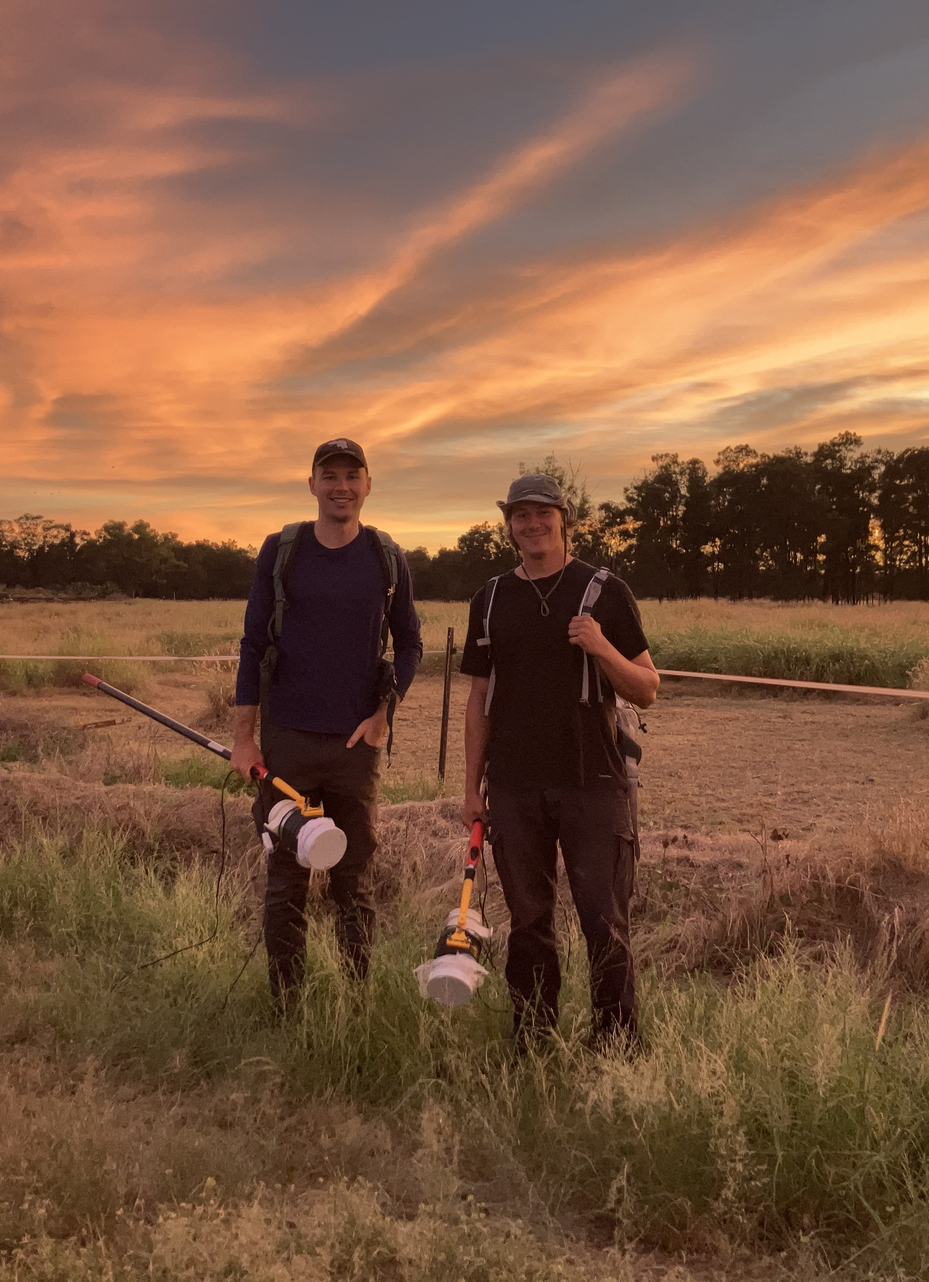
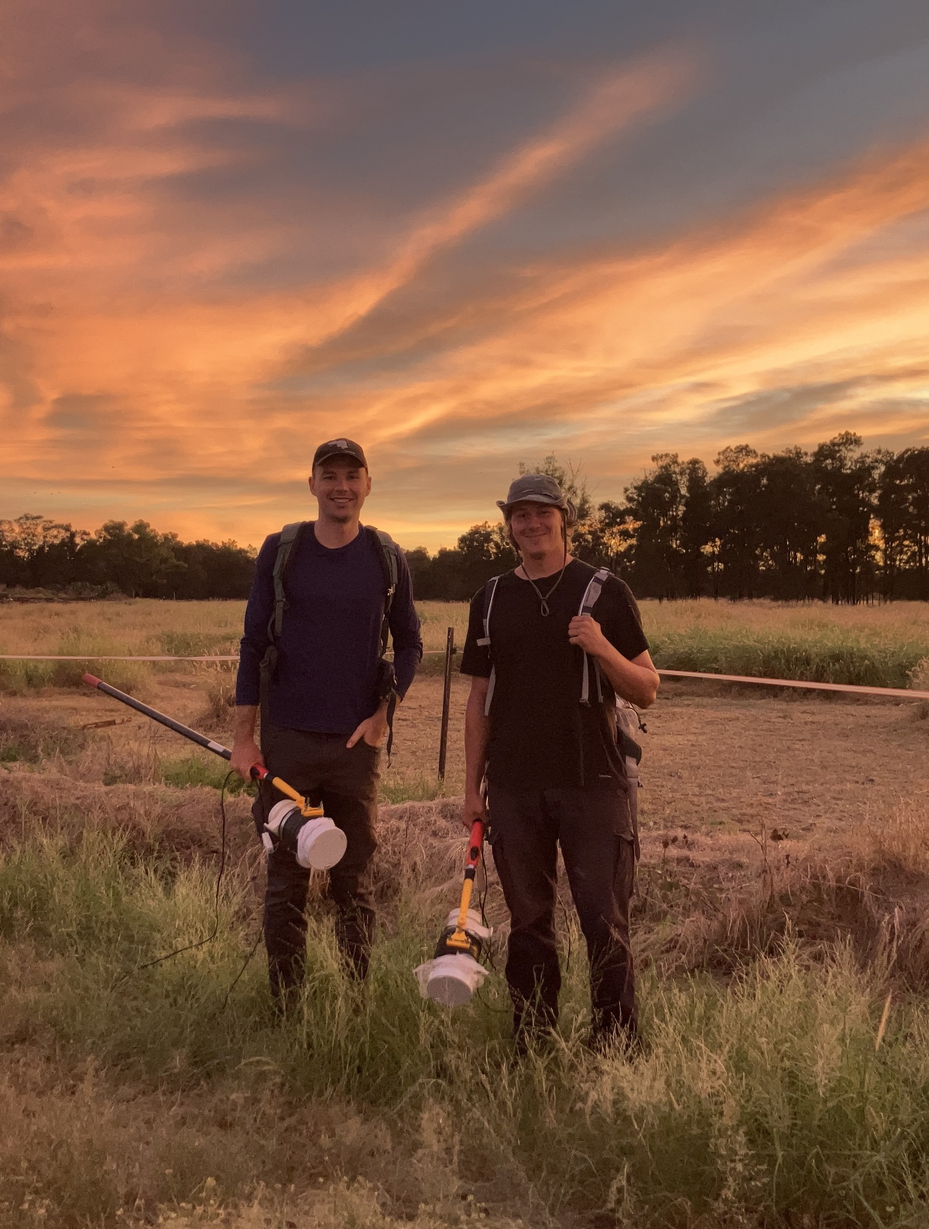
sdf

diff --git a/_includes/landing.html b/_includes/landing.html
@@ -56,10 +56,10 @@
     <!-- About Me Text -->
 <div class="col-md-4 justify-text">
   <p>
-    From the wetlands of Australia to research labs, my work revolves around 
+    From wetland to wet labs, my work revolves around 
     understanding how mosquitoes interact with their environment and the pathogens they carry. 
     My PhD research combines fieldwork, next-generation sequencing, and disease modelling to explore 
-    how Japanese encephalitis virus circulates in commercial pig farms. Whether in the field collecting 
+    how Japanese encephalitis virus circulates at commercial pig farms in Australia. Whether in the field collecting 
     bloodfed mosquitoes or analysing sequencing data, I am passionate about bridging the gap between 
     science and public health.
   </p>
@@ -69,9 +69,7 @@
     <div class="col-md-4">
       <img src="assets/img/IMG_0725.jpg" alt="Lab Work" class="img-fluid rounded">
     </div>
-  </div>
 </div>
-
 </div>
 <div id="featured-projects">
   <div class="m-3 wow animated slideInUp" data-wow-delay=".15s">

diff --git a/assets/css/style.css b/assets/css/style.css
@@ -1589,3 +1589,14 @@ canvas {
 .justify-text {
   text-align: justify;
 }
+
+.btn-outline-primary {
+  color: #800000 !important; /* Maroon text */
+  border-color: #800000 !important; /* Maroon border */
+}
+
+.btn-outline-primary:hover {
+  color: white !important;
+  background-color: #800000 !important; /* Maroon background on hover */
+}
+
